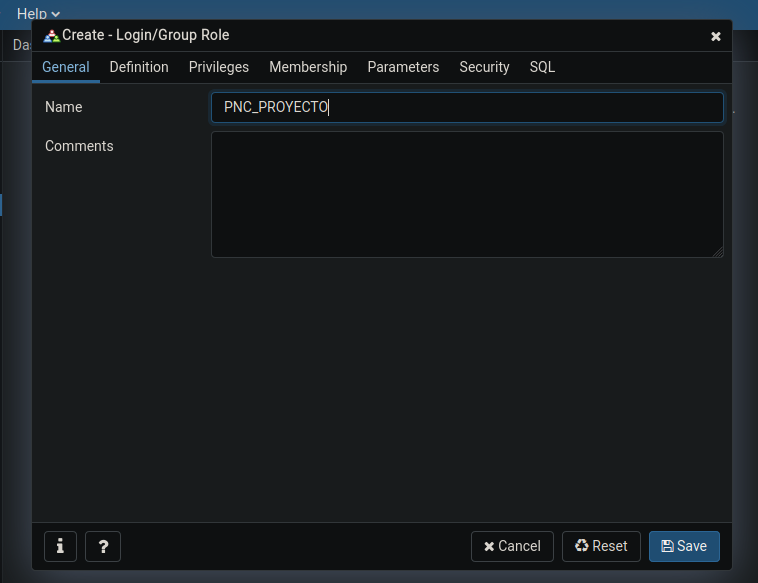
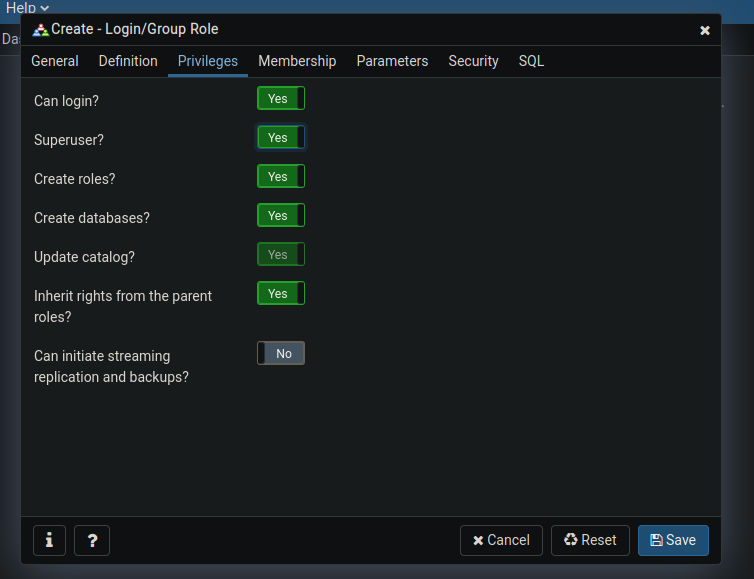
GitBook: [doc] 5 pages and 10 assets modified

Changed region(s): [[0.0, 0.0, 1.0, 0.9948], [0.3355, 0.5907, 0.4271, 0.6528]]

diff --git a/ayuda/crear-usuario.md b/ayuda/crear-usuario.md
@@ -2,21 +2,21 @@
 
 Crear Login/Role:
 
-![](../.gitbook/assets/imagen%20%287%29.png)
+![](../.gitbook/assets/imagen%20%289%29.png)
 
 Nombre: PNC\_proyecto
 
-![](../.gitbook/assets/imagen.png)
+![](../.gitbook/assets/imagen%20%281%29.png)
 
 Establecer Contraseña : root
 
-![](../.gitbook/assets/imagen%20%286%29.png)
+![](../.gitbook/assets/imagen%20%288%29.png)
 
 
 
 Dar privilegios:
 
-![](../.gitbook/assets/imagen%20%282%29.png)
+![](../.gitbook/assets/imagen%20%283%29.png)
 
 
 

diff --git a/primer-uso.md b/primer-uso.md
@@ -46,9 +46,7 @@ Pagina principal :
 
 [http://localhost:8080/](http://localhost:8080/)
 
-![](.gitbook/assets/imagen%20%281%29.png)
-
-
+![](.gitbook/assets/imagen.png)
 
 ### Paso 5:
 
@@ -60,11 +58,15 @@ User:            dbadmin1
 
 Pass:            123
 
+![](.gitbook/assets/imagen%20%286%29.png)
+
 #### Coordinador
 
 User:            dbuser1
 
 Pass:            123
+
+
 
 
 

diff --git a/importante.md b/importante.md
@@ -1,0 +1,12 @@
+# Importante
+
+## Doble inicio de Secion.
+
+Si valida el doble inicio solo que saca al usuario con la secion vieja .
+
+## Busqueda 
+
+La busqueda es dinamica cuando uno escribe , pero al momento de tocar el boton de busqueda envia a una busqueda por coincidencia en la base.
+
+
+

diff --git a/ayuda/restaurar-o-crear-base..md b/ayuda/restaurar-o-crear-base..md
@@ -4,7 +4,7 @@ Restaurar o Crear Base:
 
 Database: PNC\_PROYECTO
 
-![](../.gitbook/assets/imagen%20%285%29.png)
+![](../.gitbook/assets/imagen%20%287%29.png)
 
 Restauramos o creamos un Query.
 

diff --git a/SUMMARY.md b/SUMMARY.md
@@ -4,6 +4,7 @@
 * [Definicion](definicion.md)
 * [Instrucciones Generales](instrucciones.md)
 * [Primer Uso](primer-uso.md)
+* [Importante](importante.md)
 
 ## Base de Datos
 
